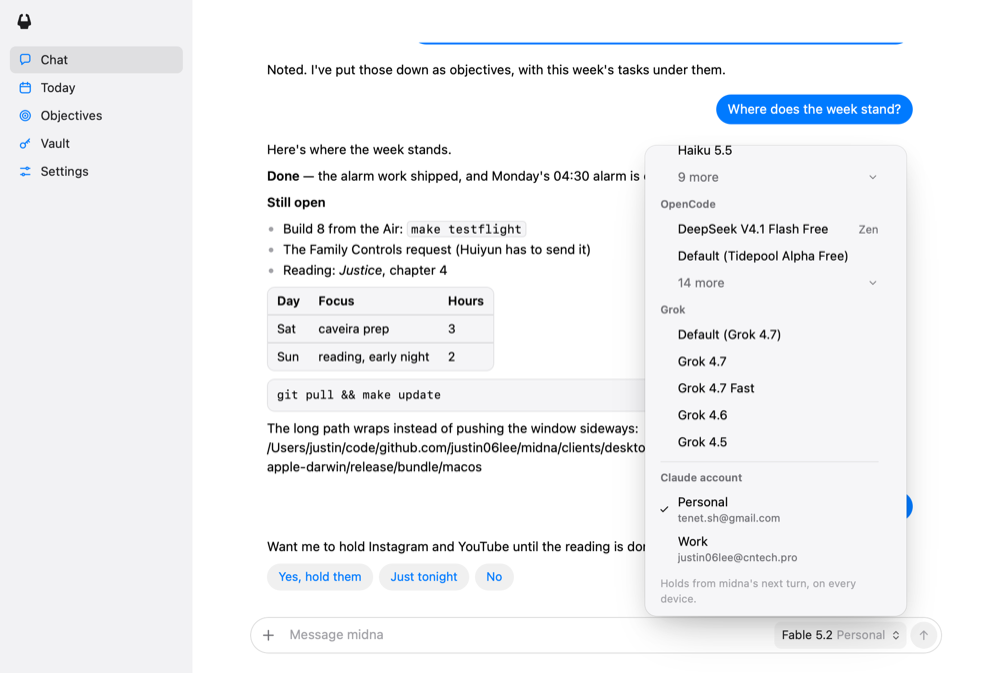
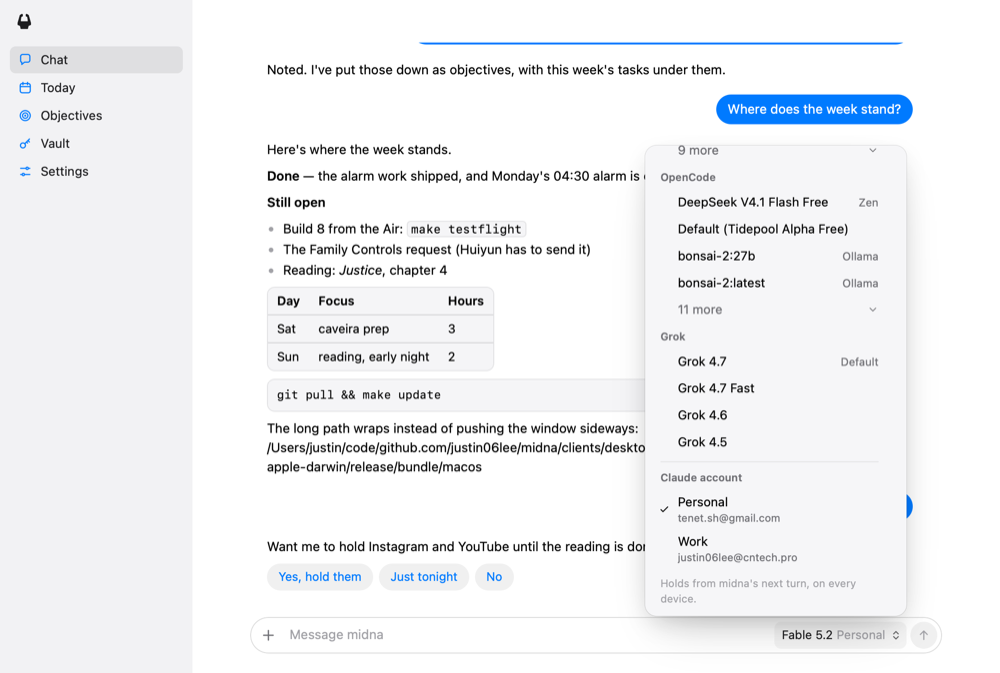
fix(models): the default wears a tag on its own row, and every brain shows four rows
"Default (Grok 4.7)" sat right above "Grok 4.7". When the model a brain
runs by default is one of the rows showing, that row carries a grey
"Default" tag and is the one ticked when the brain is set with no model
named; the default keeps a row of its own only when it isn't showing, and
then isn't repeated behind "more". Every brain now shows four rows and
keeps the rest behind "N more" (never for a single model), instead of a
short list showing whole.

scripts/built-shot.ts photographs the built app's own window in one
command: it starts a throwaway midna, hands the preview build its
connection, opens it behind what is in front and captures the window; it
stops with a plain message while the screen is locked.

Changed region(s): [[0.651, 0.2184, 0.868, 0.5305], [0.837, 0.5305, 0.868, 0.5617]]

diff --git a/packages/protocol/src/models.ts b/packages/protocol/src/models.ts
@@ -16,8 +16,12 @@ import type { Account, BrainInfo, BrainModel, Status } from "./index.ts";
 /** A provider's name as a person says it. */
 const SHORT: Record<string, string> = { claude: "Claude", codex: "Codex", opencode: "OpenCode", gemini: "Gemini", hermes: "Hermes", copilot: "Copilot", cursor: "Cursor", qwen: "Qwen", goose: "Goose", kimi: "Kimi", kilo: "Kilo", cline: "Cline", auggie: "Auggie", amp: "Amp", grok: "Grok", droid: "Droid" };
 
-/** How many of a provider's models show before "More". */
-const SHOWN = 5;
+/**
+ * How many rows a provider shows before the rest go behind "N more": the same for every brain. What is set or a
+ * fallback always shows, so a group can run past it; and "more" never stands for a single model, which would take
+ * the row it saves.
+ */
+const SHOWN = 4;
 
 export interface ModelRef {
   provider: string;
@@ -121,7 +125,7 @@ export interface ModelChoice {
   /** What to send as the `model` setting. */
   ref: string;
   name: string;
-  /** A word beside the name: the vendor inside a provider that carries several. */
+  /** A word beside the name: the vendor inside a provider that carries several, and "Default" on the model the brain runs when none is named. */
   note?: string;
   /** What the brain says of it, and the model an alias stands for: for a tooltip. */
   detail?: string;
@@ -141,12 +145,14 @@ export interface ModelGroup {
 }
 
 /**
- * Every installed brain and its models, the setting's marked. A provider
- * leads with what the user is likely after: the model set now and the
- * fallbacks, then the start of the brain's own list (Claude's current
- * models), then the provider's default where it has one to offer. The rest
- * of the list waits behind "More". With no list, a provider offers what the
- * host names and its default, and no more.
+ * Every installed brain and its models, the setting's marked. Each provider
+ * shows SHOWN rows and keeps the rest behind "More": first the start of the
+ * brain's own list where it leads with its current models (Claude), then
+ * what is set and the fallbacks, then the list in its own order. The model a
+ * brain runs when none is named carries a "Default" tag when it is one of
+ * the rows showing; when it isn't, it has a row of its own, "Default (its
+ * name)". With no list, a provider offers what the host names and a plain
+ * "Default", and no more.
  */
 export function modelGroups(status: Pick<Status, "model" | "fallback">, brains: readonly BrainInfo[], catalogues: Catalogues = {}): ModelGroup[] {
   const ids = brains.map((b) => b.id);
@@ -156,31 +162,41 @@ export function modelGroups(status: Pick<Status, "model" | "fallback">, brains: 
     .filter((b) => b.installed || set.provider === b.id)
     .map((b) => {
       const catalogue = catalogues[b.id];
-      const current = set.provider === b.id ? sameAs(set, catalogue) : null;
+      const key = (r: ModelRef) => sameAs(r, catalogue);
+      // The model this brain runs when none is named, when its list marks one. Claude Code has no such default to offer: yagami's is an alias for a listed model.
+      const marked = b.id === "claude" ? undefined : catalogue?.find((m) => m.default);
+      const byDefault: ModelRef | null = marked ? { provider: b.id, model: marked.id } : null;
+      const current = set.provider !== b.id ? null : !set.model && byDefault ? key(byDefault) : key(set);
       const choice = (r: ModelRef): ModelChoice => {
         const e = entry(r, catalogue);
-        const note = vendorOf(r);
-        const detail = e ? [e.description, e.resolved && e.resolved !== e.id ? `${e.id} is ${e.resolved}` : e.id].filter(Boolean).join(" · ") : undefined;
-        // The provider's own default says which model that is, when the brain's list marks one.
-        const byDefault = defaultOf(catalogue);
-        const name = r.model ? nameOf(r, catalogue, brains) : b.id === "hermes" ? "Hermes" : byDefault ? `Default (${byDefault})` : "Default";
-        const what = r.model || b.id === "hermes" ? detail : `Whatever ${providerName(b.id, brains)} is set to use on the host${byDefault ? `: ${byDefault} now` : ""}`;
-        return { ref: modelRef(r), name, ...(note ? { note } : {}), ...(what ? { detail: what } : {}), selected: sameAs(r, catalogue) === current };
+        const isDefault = byDefault !== null && r.model !== null && key(r) === key(byDefault);
+        const note = [vendorOf(r), isDefault ? "Default" : undefined].filter(Boolean).join(" · ");
+        const name = r.model ? nameOf(r, catalogue, brains) : b.id === "hermes" ? "Hermes" : marked ? `Default (${bare(marked.name)})` : "Default";
+        const detail = !r.model
+          ? b.id === "hermes"
+            ? undefined
+            : `Whatever ${providerName(b.id, brains)} is set to use on the host${marked ? `: ${bare(marked.name)} now` : ""}`
+          : e
+            ? [e.description, e.resolved && e.resolved !== e.id ? `${e.id} is ${e.resolved}` : e.id].filter(Boolean).join(" · ")
+            : undefined;
+        return { ref: modelRef(r), name, ...(note ? { note } : {}), ...(detail ? { detail } : {}), selected: (r.model ? key(r) : byDefault ? key(byDefault) : modelRef(r)) === current };
       };
-      const listed = (catalogue ?? []).map((m) => ({ provider: b.id, model: m.id }));
-      const mine = wanted.filter((r) => r.provider === b.id);
-      const lead = catalogue ? leading(catalogue).map((m) => ({ provider: b.id, model: m.id })) : [];
-      // Claude Code has no "default" of its own to offer: yagami's is an alias for one of the listed models.
-      const fallback = b.id === "claude" ? [] : [{ provider: b.id, model: null }];
       const seen = new Set<string>();
-      const once = (rs: ModelRef[]) => rs.filter((r) => !seen.has(sameAs(r, catalogue)) && seen.add(sameAs(r, catalogue)));
-      // The brain's leading entries keep their place; what is set or a fallback joins them when it isn't one of them.
-      const first = once([...lead, ...mine, ...fallback]);
-      const rest = once(listed);
-      // A short list shows whole: "More" is for a provider with dozens.
-      const room = Math.max(0, SHOWN - first.length);
-      const shown = rest.length <= room ? rest : [];
-      return { provider: b.id, label: providerName(b.id, brains), choices: [...first, ...shown].map(choice), more: rest.slice(shown.length).map(choice), listed: catalogue !== undefined || b.id === "hermes" };
+      const once = (rs: ModelRef[]) => rs.filter((r) => !seen.has(key(r)) && seen.add(key(r)));
+      const lead = catalogue ? leading(catalogue).map((m) => ({ provider: b.id, model: m.id })) : [];
+      // What is set or a fallback, by model: the bare provider is the default's row, below.
+      const pinned = once([...lead, ...wanted.filter((r) => r.provider === b.id && r.model)]);
+      const rest = once((catalogue ?? []).map((m) => ({ provider: b.id, model: m.id })));
+      const fill = (n: number) => rest.slice(0, Math.max(0, n));
+      // The default is one of the rows showing: it wears the tag there. Otherwise, a brain that has one gets a row for it.
+      const plain = [...pinned, ...fill(SHOWN - pinned.length)];
+      const tagged = byDefault !== null && plain.some((r) => key(r) === key(byDefault));
+      const own: ModelRef[] = tagged || b.id === "claude" ? [] : [{ provider: b.id, model: null }];
+      let shown = tagged ? plain : [...pinned, ...own, ...fill(SHOWN - pinned.length - own.length)];
+      // Behind "more": what isn't showing, less the default when it has its own row above.
+      let more = rest.filter((r) => !shown.includes(r) && !(own.length && byDefault && key(r) === key(byDefault)));
+      if (more.length === 1) [shown, more] = [[...shown, ...more], []];
+      return { provider: b.id, label: providerName(b.id, brains), choices: shown.map(choice), more: more.map(choice), listed: catalogue !== undefined || b.id === "hermes" };
     });
 }
 

diff --git a/clients/desktop/scripts/built-shot.ts b/clients/desktop/scripts/built-shot.ts
@@ -1,0 +1,110 @@
+/**
+ * A photograph of the built Mac app's own window, against a throwaway midna,
+ * in one command (macOS, from clients/desktop):
+ *
+ *   bun scripts/built-shot.ts [out dir] [--build] [--keep]
+ *
+ * It runs a build of the app under a bundle id, name and process name of
+ * its own (sh.midna.desktop.preview, midna-preview), so the installed
+ * midna.app, its single-instance lock and its permissions are never
+ * touched. --build makes that build first (a few minutes); without it the
+ * one left by an earlier run is used. The throwaway midna is started here
+ * and its connection handed to the app, since each one has a home and a
+ * token of its own. --keep leaves the app and its midna running afterwards,
+ * to click around; otherwise both are stopped.
+ *
+ * The screen has to be unlocked: behind a lock screen WebKit paints nothing
+ * and the window comes out empty (scripts/websnap.swift draws the page off
+ * screen for that case). Whatever runs this needs Screen Recording.
+ */
+import { copyFileSync, existsSync, mkdirSync } from "node:fs";
+import { homedir } from "node:os";
+import { join, resolve } from "node:path";
+import { MidnaClient, type Connection } from "@midna/protocol";
+
+const here = join(import.meta.dir, "..");
+const repo = join(here, "..", "..");
+const ID = "sh.midna.desktop.preview";
+const NAME = "midna-preview";
+const APP = join(here, "src-tauri", "target", "release", "bundle", "macos", `${NAME}.app`);
+const flags = new Set(process.argv.slice(2).filter((a) => a.startsWith("--")));
+const out = resolve(process.argv.slice(2).find((a) => !a.startsWith("--")) ?? join(repo, "docs", "apple-pass"));
+
+const sh = (argv: string[], cwd = here) => Bun.spawnSync(argv, { cwd, stdout: "pipe", stderr: "pipe" });
+const say = (line: string) => console.log(line);
+/** One line of Swift's answer: the lock state and the window list aren't in any command-line tool. */
+const swift = (code: string) => sh(["swift", "-e", `import CoreGraphics\nimport Foundation\n${code}`]).stdout.toString().trim();
+
+if (process.platform !== "darwin") throw new Error("this photographs a Mac window");
+
+if (flags.has("--build")) {
+  say("[1/4] building midna-preview.app (release; a few minutes)");
+  for (const argv of [
+    ["bun", "scripts/sidecar.ts"],
+    ["bun", "run", "tauri", "build", "--bundles", "app", "--config", JSON.stringify({ identifier: ID, productName: NAME, mainBinaryName: NAME })],
+    // Ad hoc: it runs here and nowhere else.
+    ["codesign", "--force", "--deep", "--sign", "-", APP],
+  ]) {
+    const r = Bun.spawnSync(argv, { cwd: here, stdout: "inherit", stderr: "inherit" });
+    if (r.exitCode !== 0) process.exit(r.exitCode ?? 1);
+  }
+} else if (!existsSync(APP)) {
+  console.error(`no preview build at ${APP}\nrun this again with --build`);
+  process.exit(1);
+} else say("[1/4] using the preview build already there");
+
+if (swift(`let d = CGSessionCopyCurrentDictionary() as? [String: Any]; print((d?["CGSSessionScreenIsLocked"] as? Int) == 1 ? "locked" : "open")`) === "locked") {
+  console.error("this Mac's screen is locked: the app would paint nothing. Unlock it and run this again.");
+  process.exit(2);
+}
+
+say("[2/4] starting a throwaway midna");
+const midna = Bun.spawn(["bun", "scripts/preview.ts"], { cwd: repo, stdout: "pipe", stderr: "inherit" });
+let home = "";
+const reader = midna.stdout.getReader();
+for (let text = ""; !home; ) {
+  const { value, done } = await reader.read();
+  if (done) throw new Error("the throwaway midna stopped before it was ready");
+  text += new TextDecoder().decode(value);
+  home = /\(home ([^)]+)\)/.exec(text)?.[1] ?? "";
+}
+reader.releaseLock();
+const stop = () => {
+  if (flags.has("--keep")) return say(`left running: the app, and midna (pid ${midna.pid}); quit the app and kill that when done`);
+  sh(["pkill", "-f", `${NAME}.app/Contents/MacOS/${NAME}`]);
+  midna.kill();
+};
+
+try {
+  // The app reads its connection from its own folder: this build's, not midna.app's.
+  const support = join(homedir(), "Library", "Application Support", ID);
+  mkdirSync(support, { recursive: true });
+  copyFileSync(join(home, "connection.json"), join(support, "connection.json"));
+  const c = (await Bun.file(join(home, "connection.json")).json()) as Connection;
+  // What Justin runs, so the window shows the names it would show him. A brain this Mac lacks is simply not set.
+  await new MidnaClient(c.url, c.token).updateSettings({ model: "claude:claude-fable-5-2", account: "personal" }).catch(() => {});
+
+  say("[3/4] opening the app behind whatever is in front");
+  sh(["pkill", "-f", `${NAME}.app/Contents/MacOS/${NAME}`]);
+  sh(["open", "-g", APP]);
+  let window = "";
+  for (let tries = 0; !window && tries < 10; tries++) {
+    await Bun.sleep(1500);
+    window = swift(
+      `let l = CGWindowListCopyWindowInfo([.optionAll], kCGNullWindowID) as! [[String: Any]]\nfor w in l { if (w["kCGWindowOwnerName"] as? String) == "${NAME}", (w["kCGWindowName"] as? String) == "midna", (w["kCGWindowIsOnscreen"] as? Int) == 1 { print(w["kCGWindowNumber"] ?? ""); break } }`,
+    );
+  }
+  if (!window) throw new Error("the app's window never came up");
+  // The page: its history, and its model's name from the brain.
+  await Bun.sleep(5000);
+
+  say("[4/4] photographing its window");
+  mkdirSync(out, { recursive: true });
+  const file = join(out, "built-chat.png");
+  const shot = sh(["screencapture", "-x", "-o", "-l", window, file]);
+  if (shot.exitCode !== 0 || !existsSync(file)) throw new Error(`screencapture couldn't take it: ${shot.stderr.toString().trim() || "no picture"}`);
+  say(`saved ${file}`);
+} finally {
+  stop();
+}
+process.exit(0);

diff --git a/packages/protocol/test/models.test.ts b/packages/protocol/test/models.test.ts
@@ -69,14 +69,56 @@ describe("what a picker lists", () => {
     expect(groups[0]!.more[0]!.detail).toBe("fable is claude-fable-5-1");
   });
 
-  test("a list in no such order leads with nothing: what is set or a fallback, the default, and the rest behind More", () => {
+  test("a list in no such order: what is set or a fallback, the default's own row when it isn't showing, then the list up to four rows", () => {
     const groups = modelGroups(status, BRAINS, { claude: CLAUDE, opencode: ZEN });
     // "Default" says which model the brain runs when none is named, when its list marks one.
-    expect(groups[2]!.choices.map((c) => [c.name, c.note])).toEqual([["DeepSeek V4.1 Flash Free", "Zen"], ["Default (Tidepool Alpha Free)", undefined]]);
+    expect(groups[2]!.choices.map((c) => [c.name, c.note])).toEqual([
+      ["DeepSeek V4.1 Flash Free", "Zen"],
+      ["Default (Tidepool Alpha Free)", undefined],
+      ["bonsai-2:27b", "Ollama"],
+      ["bonsai-2:latest", "Ollama"],
+    ]);
     expect(groups[2]!.choices[1]!.detail).toBe("Whatever OpenCode is set to use on the host: Tidepool Alpha Free now");
     expect(modelName("opencode", BRAINS, { opencode: ZEN })).toBe("Tidepool Alpha Free");
-    expect(groups[2]!.more.map((c) => [c.name, c.note])).toContainEqual(["bonsai-2:27b", "Ollama"]);
-    expect(groups[2]!.more).toHaveLength(6);
+    // The default has its row above, so it isn't said again behind "more".
+    expect(groups[2]!.more.map((c) => c.name)).toEqual(["Big Pickle", "Iceman Free", "Beam Free"]);
+  });
+
+  test("a default that is already one of the rows wears a tag there instead of a row of its own", () => {
+    const GROK: BrainModel[] = [
+      { id: "grok-4.7", name: "Grok 4.7", default: true },
+      { id: "grok-4.7-fast", name: "Grok 4.7 Fast" },
+      { id: "grok-4.6", name: "Grok 4.6" },
+      { id: "grok-4.5", name: "Grok 4.5" },
+    ];
+    const brains = [...BRAINS, brain("grok")];
+    const grok = (model: string) => modelGroups({ model, fallback: [] }, brains, { grok: GROK }).find((g) => g.provider === "grok")!;
+    expect(grok("claude:opus").choices.map((c) => [c.ref, c.name, c.note])).toEqual([
+      ["grok:grok-4.7", "Grok 4.7", "Default"],
+      ["grok:grok-4.7-fast", "Grok 4.7 Fast", undefined],
+      ["grok:grok-4.6", "Grok 4.6", undefined],
+      ["grok:grok-4.5", "Grok 4.5", undefined],
+    ]);
+    expect(grok("claude:opus").more).toEqual([]);
+    // Set to the brain with no model named, or to that model by name: the tagged row is the one ticked.
+    expect(grok("grok").choices.map((c) => c.selected)).toEqual([true, false, false, false]);
+    expect(grok("grok:grok-4.7").choices.map((c) => c.selected)).toEqual([true, false, false, false]);
+    // A vendor's tag and the default's sit together.
+    const zen = modelGroups({ model: "claude:opus", fallback: ["opencode:opencode/tidepool-alpha-free"] }, BRAINS, { opencode: ZEN })[2]!;
+    expect(zen.choices.map((c) => [c.name, c.note])[0]).toEqual(["Tidepool Alpha Free", "Zen · Default"]);
+    expect(zen.choices.map((c) => c.name)).not.toContain("Default (Tidepool Alpha Free)");
+  });
+
+  test("every brain shows four rows and keeps the rest behind more, which never stands for one model alone", () => {
+    const five: BrainModel[] = ["a", "b", "c", "d", "e"].map((id) => ({ id, name: id.toUpperCase(), ...(id === "a" ? { default: true } : {}) }));
+    const six = [...five, { id: "f", name: "F" }];
+    const of = (list: BrainModel[]) => modelGroups({ model: "claude:opus", fallback: [] }, BRAINS, { claude: CLAUDE, codex: list });
+    expect(of(five)[1]!.choices.map((c) => c.name)).toEqual(["A", "B", "C", "D", "E"]);
+    expect(of(five)[1]!.more).toEqual([]);
+    expect(of(six)[1]!.choices.map((c) => c.name)).toEqual(["A", "B", "C", "D"]);
+    expect(of(six)[1]!.more.map((c) => c.name)).toEqual(["E", "F"]);
+    expect(of(six)[0]!.choices).toHaveLength(4);
+    expect(of(six)[0]!.more).toHaveLength(3);
   });
 
   test("what is set joins the leading entries when it isn't one, and a full id marks the alias that stands for it", () => {
@@ -102,9 +144,13 @@ describe("what a picker lists", () => {
     expect(modelGroups({ model: "codex", fallback: [] }, BRAINS)[0]!.choices).toEqual([]);
   });
 
-  test("a short list shows whole", () => {
+  test("a short list shows whole, its default tagged", () => {
     const groups = modelGroups({ model: "claude:opus", fallback: [] }, BRAINS, { opencode: ZEN.slice(2, 5) });
-    expect(groups[2]!.choices.map((c) => c.ref)).toEqual(["opencode", "opencode:opencode/big-pickle", "opencode:opencode/deepseek-v4.1-flash-free", "opencode:opencode/tidepool-alpha-free"]);
+    expect(groups[2]!.choices.map((c) => [c.ref, c.note])).toEqual([
+      ["opencode:opencode/big-pickle", "Zen"],
+      ["opencode:opencode/deepseek-v4.1-flash-free", "Zen"],
+      ["opencode:opencode/tidepool-alpha-free", "Zen · Default"],
+    ]);
     expect(groups[2]!.more).toEqual([]);
   });
 

diff --git a/docs/apple-pass/README.md b/docs/apple-pass/README.md
@@ -2,6 +2,22 @@
 
 A rough pass, for review before it goes further. Not pushed, no app built, nothing on the host.
 
+## Round 4 (after the third review)
+
+| What was wrong | Before | After |
+| --- | --- | --- |
+| "Default (Grok 4.7)" sat right above "Grok 4.7"; Grok showed five rows where the others showed four | `mac-menu-rows-before.png`, `phone-sheet-rows-before.png` | `mac-menu-rows-after.png`, `phone-sheet-rows-after.png` |
+
+- **Default.** When the model a brain runs by default is already one of the rows showing, there is no Default row: that row carries a quiet grey "Default" tag, where "Zen" sits, and it is the row ticked when the brain is set with no model named. When the default isn't one of the rows (OpenCode's Tidepool), it keeps its own row, "Default (Tidepool Alpha Free)", and isn't said again behind "more".
+- **One rule for every brain.** Each shows four rows, then "N more": the start of the brain's own list where it leads with its current models (Claude), what is set and the fallbacks, the default's row when it needs one, then the list in its own order. What is set always shows, and "more" never stands for a single model. So OpenCode now fills its four rows from its list, and Grok's four models are its four rows.
+- **The real window.** The preview build is back in `clients/desktop/src-tauri/target/release/bundle/macos/midna-preview.app`, built from this round. One command photographs it once charizard is unlocked (it says so and stops while the screen is locked):
+
+  ```sh
+  cd clients/desktop && bun scripts/built-shot.ts      # saves docs/apple-pass/built-chat.png; --keep leaves it open, --build rebuilds first
+  ```
+
+  It starts its own throwaway midna and hands the app that connection each time, since a throwaway midna's address and token only last as long as it runs.
+
 ## Round 3 (after the second review)
 
 | What was wrong | Before | After |
@@ -21,14 +37,7 @@ A rough pass, for review before it goes further. Not pushed, no app built, nothi
 
 The Mac app was built on charizard from this branch (release, under a bundle id and name of its own, `sh.midna.desktop.preview` / `midna-preview`, so the installed midna.app and its permissions were not touched; not installed, not notarized). Opened against the throwaway midna it starts, loads its page and connects: its WebKit process held the event stream, and the daemon logged its hands saying hello as app 0.13.6.
 
-It could not be photographed. charizard's screen is locked (nobody has touched it for nine hours), and behind a lock screen WebKit paints nothing: the window is there, empty. So the Mac pictures in this round are the next closest thing: **the production page the app carries, drawn by WebKit itself off screen** (`clients/desktop/scripts/websnap.swift`), at the app's window size. They show the real engine, type and colours. They do not show the title bar and traffic lights, or the screens that only exist in the app (This Computer, the panel, the pill). To photograph the real window once the Mac is unlocked:
-
-```sh
-cd clients/desktop && bun scripts/sidecar.ts
-bun run tauri build --bundles app --config '{"identifier":"sh.midna.desktop.preview","productName":"midna-preview","mainBinaryName":"midna-preview"}'
-# put the throwaway midna's connection.json (bun run preview prints its home) in ~/Library/Application Support/sh.midna.desktop.preview/
-open -g src-tauri/target/release/bundle/macos/midna-preview.app
-```
+It could not be photographed. charizard's screen is locked (nobody has touched it for nine hours), and behind a lock screen WebKit paints nothing: the window is there, empty. So the Mac pictures in this round are the next closest thing: **the production page the app carries, drawn by WebKit itself off screen** (`clients/desktop/scripts/websnap.swift`), at the app's window size. They show the real engine, type and colours. They do not show the title bar and traffic lights, or the screens that only exist in the app (This Computer, the panel, the pill). To photograph the real window once the Mac is unlocked: `bun scripts/built-shot.ts`, as round 4 has it.
 
 ## Round 2 (after the first review)
 
